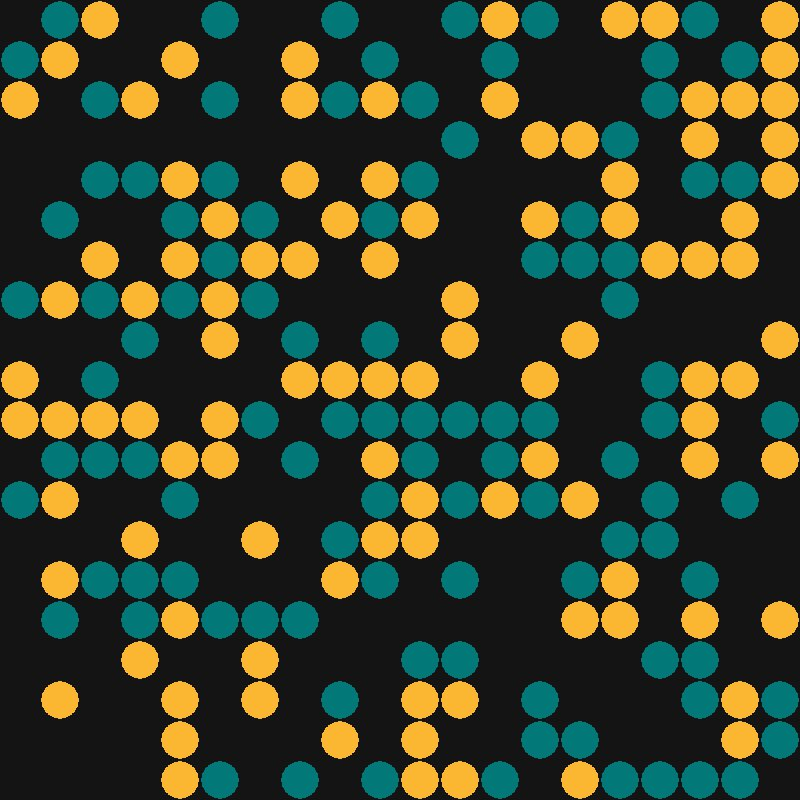
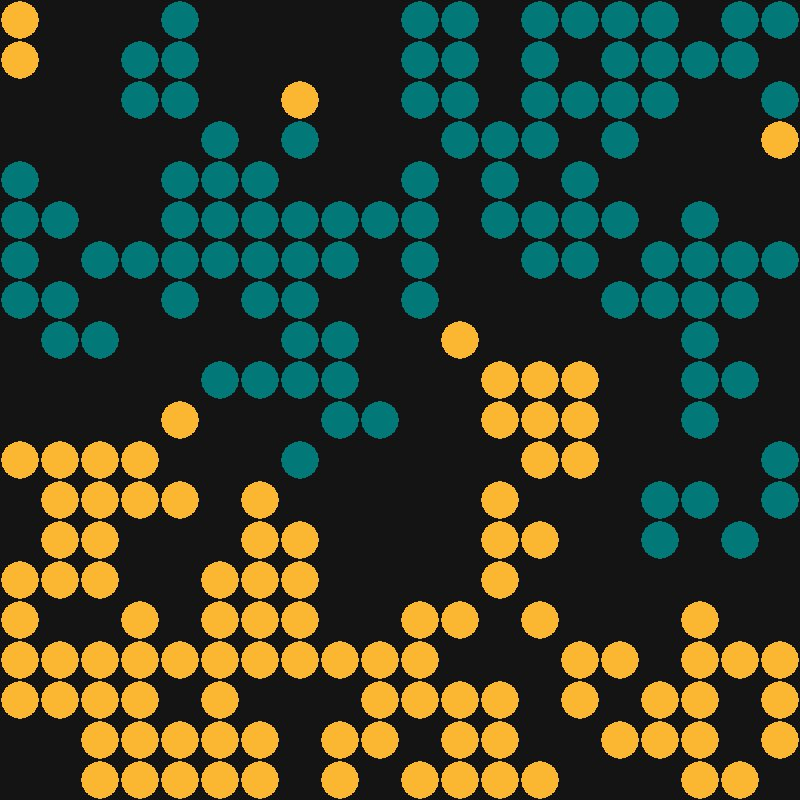
Chaned Sim5
Happy bug still in place.

diff --git a/Simulatorv5.py b/Simulatorv5.py
@@ -181,7 +181,9 @@ def checkHappy(size, board, current, bias, i, j, ratio):
             else:
                 if (i+x) < 0 or (i+x) > size-1 or (j+y) > size-1 or (j+y) < 0 or board[i+x][j+y] == "B":
                     adjacent -= 1
+                    
                 else:
+                
                     if board[i+x][j+y] == current:
                         similar += 1
 
@@ -200,7 +202,7 @@ def updateUnhappy(board, size, bias, ratio, i, j, unhappy):
     adjacent = 8
     for x in (-1, 0, 1):
         for y in (-1, 0, 1):
-            if (x == 0 and y == 0) or (i+x) <0 or (j+y) < 0:
+            if  (i+x) <0 or (j+y) < 0:
                 pass
             else:
                 try:
@@ -219,14 +221,15 @@ def updateUnhappy(board, size, bias, ratio, i, j, unhappy):
 
 
 def moveCell(blanks, board, i, j, size, bias, ratio, agents):
+    moveto = random.choice(blanks)
+    
     for z in agents:
         if z.coordinates == [i, j]:
-            if checkHappy(size, board, z.type, bias, i, j, ratio):
+            if checkHappy(size, board, z.type, bias, moveto[0], moveto[1], ratio):
                 z.unhappyMoves == 0
             else:
                 z.unhappyMoves += 1
                 
-    moveto = random.choice(blanks)
     blanks.remove(moveto)
     blanks.append((i, j))
 
@@ -243,7 +246,6 @@ def switchNode(nodes, activeNode):
                         activeNode = nodes[i+1]
                 except:
                         activeNode = nodes[0]
-                
                 return activeNode
 
 def main():
@@ -291,6 +293,10 @@ def main():
                     k = (boardSize/activeNode.size)
 
         for z in nodes:
+            if z == activeNode:
+                    drawBoard(z.board, colours, screen, k, boardSize, z.size)
+                    
+                    pygame.display.update()
             if len(z.unhappy) != 0: #If unhappy
 
                 z.happy = False
@@ -306,10 +312,7 @@ def main():
                 z.unhappy = updateUnhappy(z.board, z.size, z.bias, z.ratio, movetox, movetoy, z.unhappy)
 
             
-                if z == activeNode:
-                    drawBoard(z.board, colours, screen, k, boardSize, z.size)
-                    
-                    pygame.display.update()
+                
                     
             else: #If happy
                 
